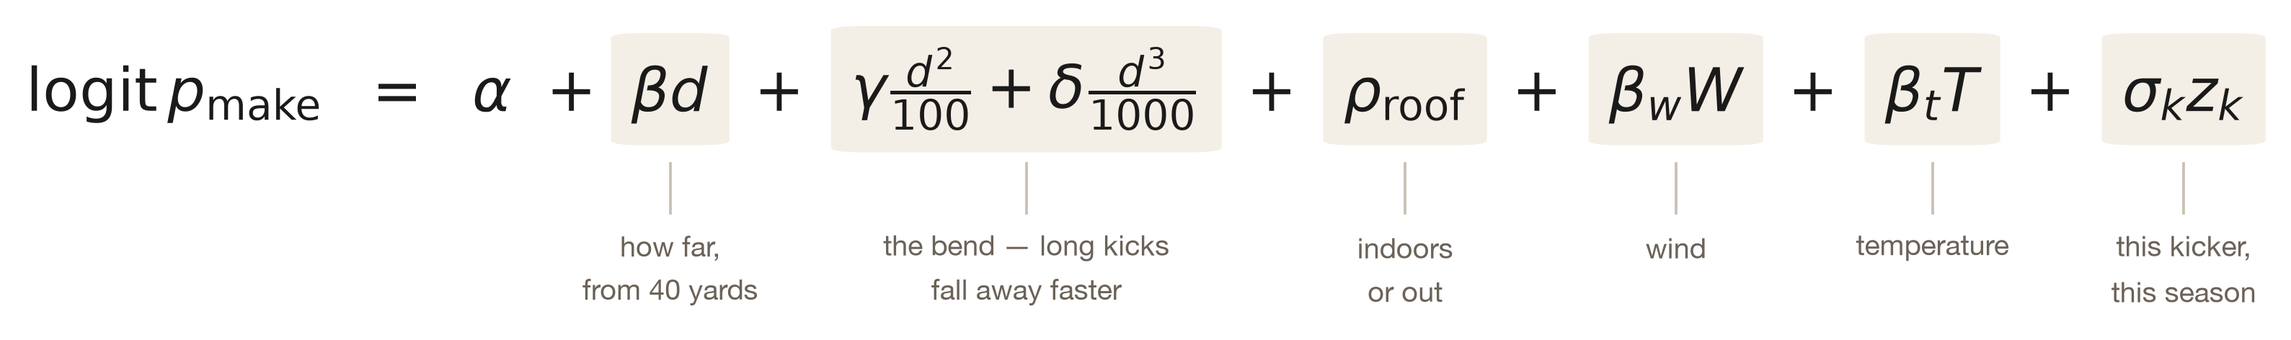
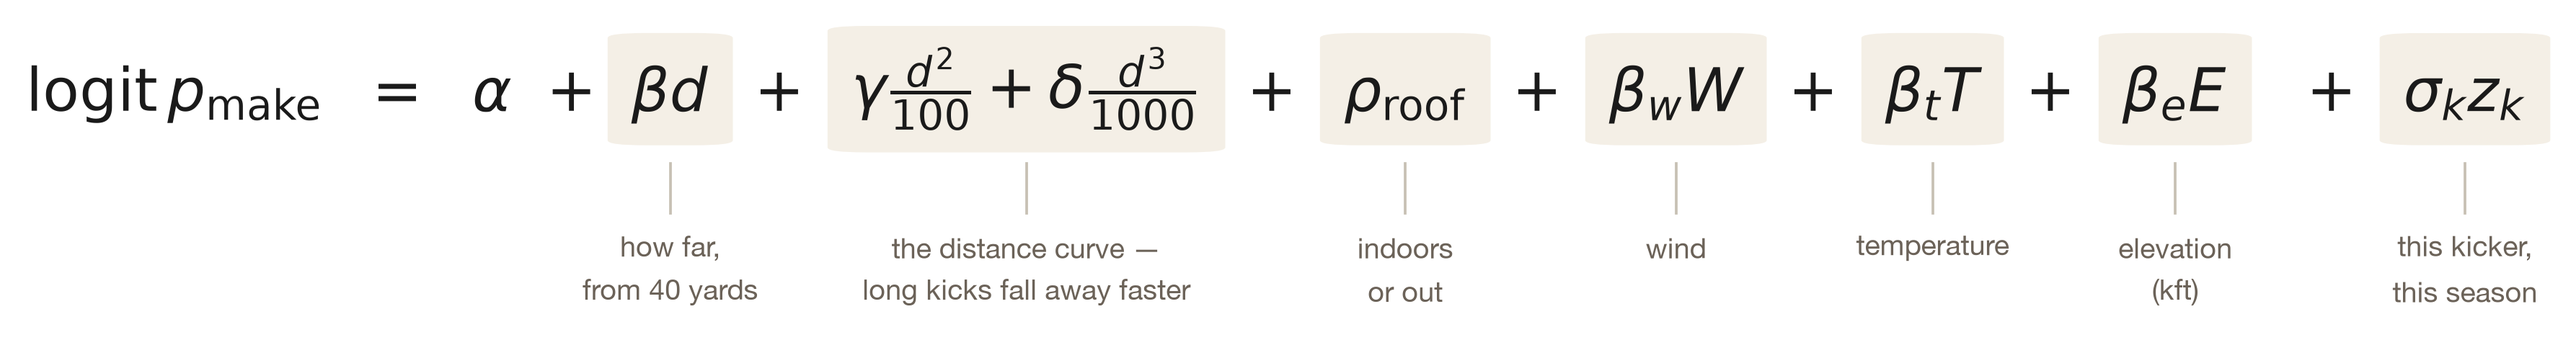
docs(writeup): elevation term on the FG formula plate, distance-curve label

diff --git a/research/80_writeup_figures.py b/research/80_writeup_figures.py
@@ -1813,15 +1813,18 @@ FG_TERMS = [
     ("plus5", r"$+$", 15.0),
     ("temp", r"$\beta_{t}T$", 15.0),
     ("plus6", r"$+$", 15.0),
-    ("kicker", r"$\sigma_{k}z_{k}$", 0.0),
+    ("elev", r"$\beta_{e}E$", 26.0),
+    ("plus7", r"$+$", 15.0),
+    ("kicker", r"$\sigma_{k}z_{k}$", 15.0),
 ]
 
 FG_LABELS = {
     "distance": "how far,\nfrom 40 yards",
-    "curve": "the bend — long kicks\nfall away faster",
+    "curve": "the distance curve —\nlong kicks fall away faster",
     "roof": "indoors\nor out",
     "wind": "wind",
     "temp": "temperature",
+    "elev": "elevation\n(kft)",
     "kicker": "this kicker,\nthis season",
 }
 
@@ -1886,7 +1889,7 @@ PLATES = {
         23.0,
         10.5,
     ),
-    "formula_03_fg": ([(FG_TERMS, FG_LABELS)], 12.5, 20.0, 9.5),
+    "formula_03_fg": ([(FG_TERMS, FG_LABELS)], 14.6, 20.0, 9.5),
     "formula_04_betabinomial": (
         [(BETA_TERMS, BETA_LABELS), (BINOMIAL_TERMS, BINOMIAL_LABELS)],
         9.6,
@@ -3093,7 +3096,7 @@ CAPTIONS = {
     ),
     "formula_01_rule.png": "The neutralization rule, term by term.",
     "formula_02_points.png": "EPA to points of margin, and the deserve-to-win share.",
-    "formula_03_fg.png": "The field-goal make model, every covariate labeled.",
+    "formula_03_fg.png": "The field-goal make model, every covariate labeled — elevation included since v1.4.",
     "formula_04_betabinomial.png": "The beta-binomial hierarchy that shrinks a unit's rate.",
     "formula_05_trust.png": "The trust dial, and what sets it.",
 }

diff --git a/docs/writeup/figures/CAPTIONS.md b/docs/writeup/figures/CAPTIONS.md
@@ -21,6 +21,6 @@
 - **`23_corps_prior_posterior.png`** — The offense's mirror of the kicker figure: Jacksonville's 2025 receiving corps dropped 40 of 420 catchable balls, 9.52%, and the model puts them at 6.34% against a league rate of 5.14% on those same targets.
 - **`formula_01_rule.png`** — The neutralization rule, term by term.
 - **`formula_02_points.png`** — EPA to points of margin, and the deserve-to-win share.
-- **`formula_03_fg.png`** — The field-goal make model, every covariate labeled.
+- **`formula_03_fg.png`** — The field-goal make model, every covariate labeled — elevation included since v1.4.
 - **`formula_04_betabinomial.png`** — The beta-binomial hierarchy that shrinks a unit's rate.
 - **`formula_05_trust.png`** — The trust dial, and what sets it.
